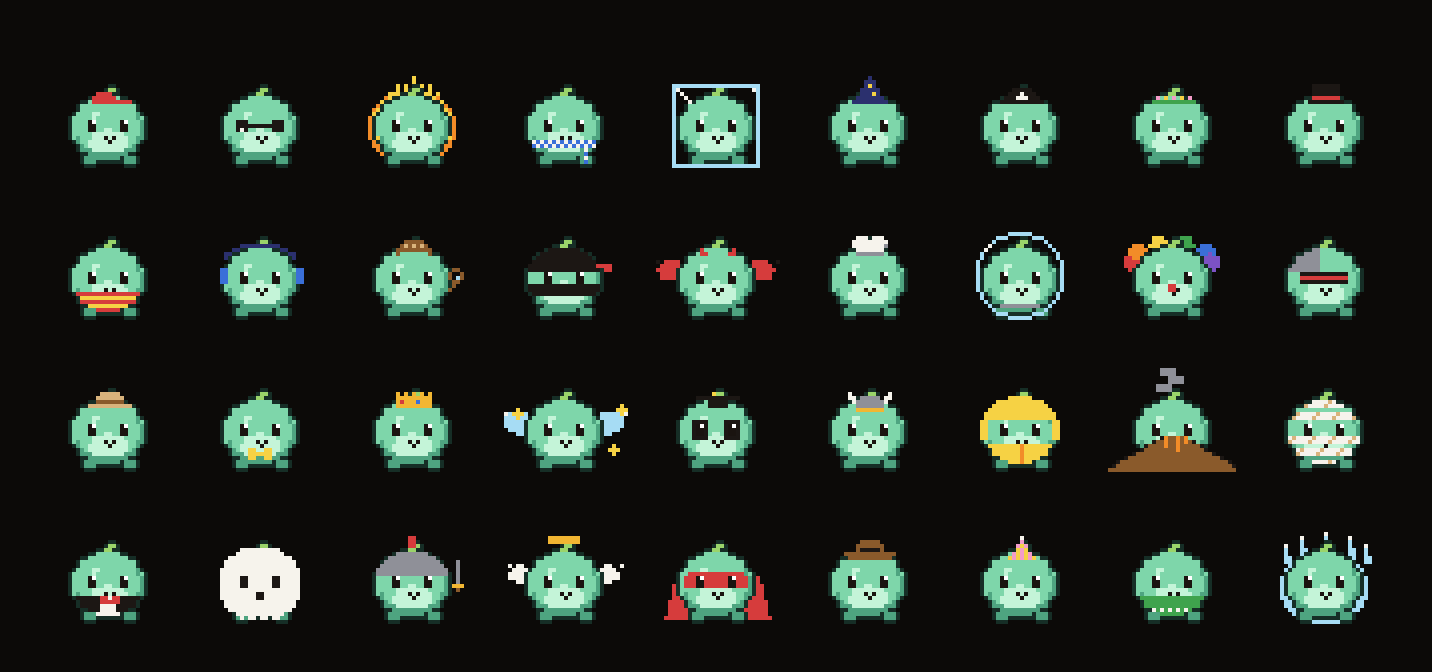
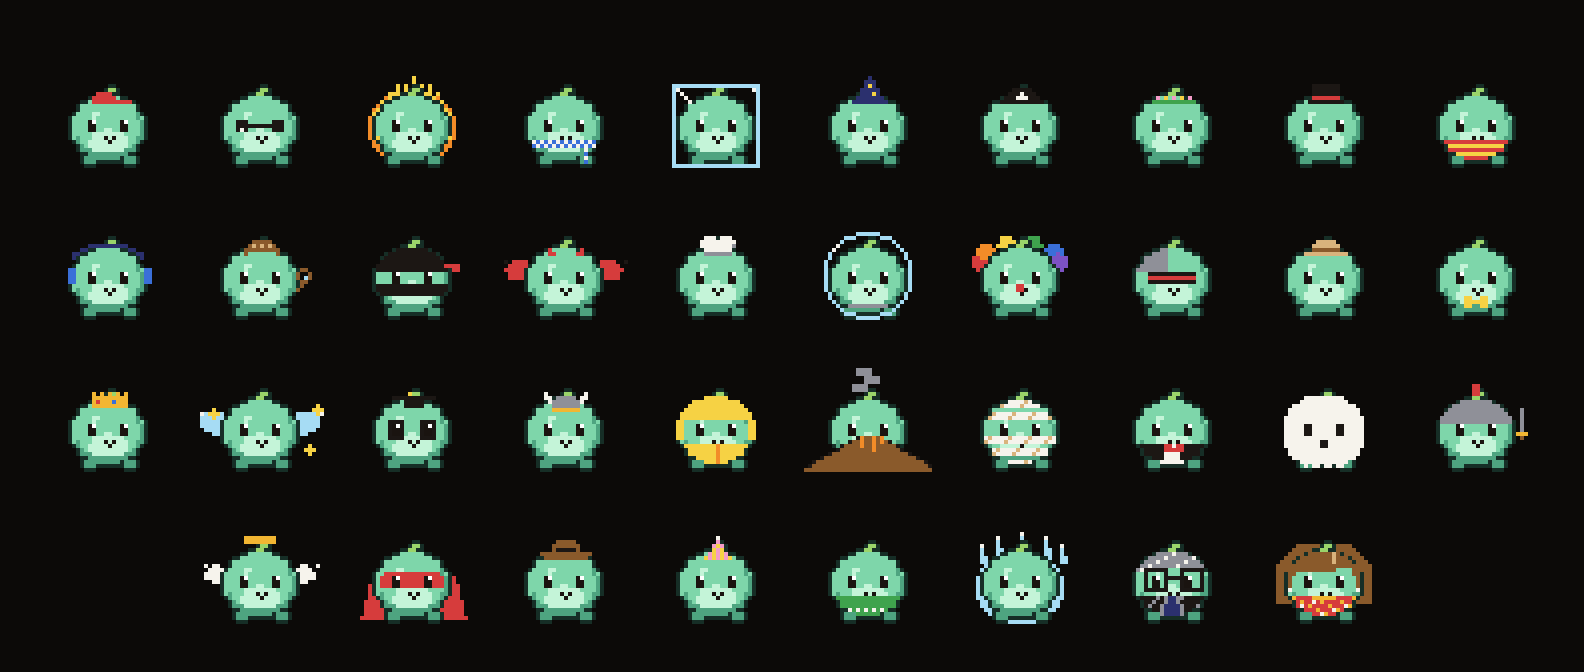
feat: CEO and spy costumes (38 in the shop)
ceo: grey swept fringe, square glasses, black leather jacket. spy: long brown hair, earrings,
red qipao with gold and flowers. Shirts contract deployed in place (catalog only); README
banner regenerated.

diff --git a/packages/sprites/src/costumes.ts b/packages/sprites/src/costumes.ts
@@ -10,6 +10,7 @@ export const COSTUME_KEYS = [
   "striped_shirt", "headphones", "detective", "ninja", "devil_wings", "chef_hat", "astronaut", "clown", "cyborg",
   "explorer", "bow_tie", "crown", "fairy_wings", "graduate", "viking", "raincoat", "volcano", "mummy",
   "tuxedo", "ghost", "knight", "angel", "superhero", "cowboy", "party_hat", "sweater", "ice_crystal",
+  "ceo", "spy",
 ] as const;
 export type CostumeKey = (typeof COSTUME_KEYS)[number];
 
@@ -284,6 +285,60 @@ const DRAW: Record<CostumeKey, Draw> = {
       }
     }
     ellipse(back, g.cx, g.cy + 1, g.rx + 2, g.ry + 1, 14);
+  },
+  ceo: ({ front }, g) => {
+    const cx = Math.round(g.cx);
+    // grey swept fringe: covers the crown, sweeps lower on the left, white highlights
+    for (let y = g.top - 1; y < g.ey - 1; y++) {
+      for (let x = 0; x < SIZE; x++) {
+        if (!inBody(g, x, y, 0.5)) continue;
+        if (y === g.ey - 2 && x > cx - 2) continue;
+        px(front, x, y, (x + 2 * y) % 7 === 0 || y === g.top - 1 ? 2 : 13);
+      }
+    }
+    // square black frames with green between frame and eye (eyes are 2 px at cx -/+ eyeGap), and a bridge
+    const frames = [cx - g.eyeGap - 3, cx + g.eyeGap - 2];
+    for (const ex of frames) {
+      rect(front, ex, g.ey - 2, 6, 1, 1);
+      rect(front, ex, g.ey + 3, 6, 1, 1);
+      rect(front, ex, g.ey - 1, 1, 4, 1);
+      rect(front, ex + 5, g.ey - 1, 1, 4, 1);
+    }
+    for (let x = frames[0]! + 6; x < frames[1]!; x++) px(front, x, g.ey, 1);
+    // black leather jacket, grey lapels, navy shirt down the middle
+    const top = chest(g);
+    torso(front, g, top, (x, y) => {
+      const d = Math.abs(x + 0.5 - g.cx);
+      const open = 1 + (y - top) * 0.35;
+      if (d <= open) return 8;
+      if (d <= open + 1) return 13;
+      return (x + y) % 6 === 0 ? 13 : 1;
+    });
+  },
+  spy: ({ back, front }, g) => {
+    // long brown hair behind the body: a wide curtain from the crown to below the shoulders
+    for (let y = g.top - 2; y < g.cy + g.ry * 0.55; y++) {
+      for (let x = 0; x < SIZE; x++) if (inBody(g, x, y, 3.5)) px(back, x, y, 11);
+    }
+    // plain fringe over the crown with a side part, and strands down the face edges
+    const part = Math.round(g.cx) + 2;
+    for (let y = g.top - 1; y < g.ey + 4; y++) {
+      for (let x = 0; x < SIZE; x++) {
+        if (!inBody(g, x, y, 0.5)) continue;
+        const crown = y < g.ey - 1 - (x > part ? 1 : 0);
+        if (crown || !inBody(g, x, y, -1)) px(front, x, y, crown && x === part && y < g.ey - 3 ? 12 : 11);
+      }
+    }
+    // white earrings
+    px(front, Math.round(g.cx - g.rx), g.ey + 3, 2);
+    px(front, Math.round(g.cx + g.rx) - 1, g.ey + 3, 2);
+    // red qipao: gold collar, gold pattern, white flowers
+    const top = chest(g);
+    torso(front, g, top, (x, y) => {
+      if (y === top && Math.abs(x + 0.5 - g.cx) <= 2) return 15;
+      if ((x + 3 * y) % 11 === 0) return 2;
+      return (2 * x + y) % 5 === 0 ? 15 : 3;
+    });
   },
 };
 

diff --git a/packages/sprites/scripts/readme-banner.ts b/packages/sprites/scripts/readme-banner.ts
@@ -6,7 +6,7 @@ import { COSTUME_KEYS, SIZE, buildPalette, clip, toRgba } from "../src/index";
 import { encodePng } from "../src/png";
 
 const out = process.argv[2] ?? "../../docs/readme-banner.png";
-const COLS = 9;
+const COLS = 10;
 const SCALE = 4;
 const CELL = SIZE * SCALE + 24;
 const PAD = 32;
@@ -20,7 +20,9 @@ const traits = [0, 0, 1, 0, 0]; // mint, belly: the colour of the logo's pets
 COSTUME_KEYS.forEach((costume, n) => {
   const c = clip("idle", { stage: "teen", winged: false, costume });
   const rgba = toRgba(c.frames[0]!, buildPalette(traits), null, c.costume![0]);
-  const ox = PAD + (n % COLS) * CELL + 12;
+  const row = Math.floor(n / COLS);
+  const inRow = Math.min(COLS, COSTUME_KEYS.length - row * COLS); // the last row is centred
+  const ox = PAD + ((COLS - inRow) * CELL) / 2 + (n % COLS) * CELL + 12;
   const oy = PAD + Math.floor(n / COLS) * CELL + 12;
   for (let y = 0; y < SIZE * SCALE; y++) {
     for (let x = 0; x < SIZE * SCALE; x++) {

diff --git a/packages/sprites/src/costumes.test.ts b/packages/sprites/src/costumes.test.ts
@@ -22,14 +22,15 @@ describe("costumes", () => {
     }
   });
 
-  it("all 36 costumes look different from each other", () => {
+  it("all 38 costumes look different from each other", () => {
     const seen = new Set<string>();
     for (const costume of COSTUME_KEYS) {
       const l = clip("idle", { stage: "teen", winged: false, costume }).costume![0]!;
       seen.add(key(l.back) + "|" + key(l.front));
     }
-    expect(COSTUME_KEYS.length).toBe(36);
-    expect(seen.size).toBe(36);
+    expect(COSTUME_KEYS.length).toBe(38);
+    expect(COSTUME_KEYS).toEqual(expect.arrayContaining(["ceo", "spy"]));
+    expect(seen.size).toBe(38);
   });
 
   it("is off without a costume, for an unknown key and on an egg", () => {

diff --git a/shirts/src/lib.rs b/shirts/src/lib.rs
@@ -24,7 +24,7 @@ const CLAIM_DEPOSIT: NearToken = NearToken::from_millinear(10);
 const COSTUME_PRICE: NearToken = NearToken::from_millinear(50);
 
 /// Costume keys the sprites draw (packages/sprites costumes); one NFT per purchase.
-const COSTUMES: [&str; 36] = [
+const COSTUMES: [&str; 38] = [
     "cap",
     "sunglasses",
     "fire",
@@ -61,6 +61,8 @@ const COSTUMES: [&str; 36] = [
     "party_hat",
     "sweater",
     "ice_crystal",
+    "ceo",
+    "spy",
 ];
 
 /// `costumes()` view: the catalog and the flat price.
@@ -306,9 +308,11 @@ mod tests {
     }
 
     #[test]
-    fn the_catalog_lists_all_36_costumes_and_the_price() {
+    fn the_catalog_lists_all_38_costumes_and_the_price() {
         let c = setup().costumes();
-        assert_eq!(c.costumes.len(), 36);
+        assert_eq!(c.costumes.len(), 38);
+        assert!(c.costumes.contains(&"ceo".to_string()));
+        assert!(c.costumes.contains(&"spy".to_string()));
         assert_eq!(c.price, U128(COSTUME_PRICE.as_yoctonear()));
         assert!(c.costumes.contains(&"ghost".to_string()));
     }

diff --git a/CLAUDE.md b/CLAUDE.md
@@ -206,7 +206,7 @@ Precedence (first match wins): Dormant > Starving > Sleepy (also while asleep) >
 
 ### 5.6 Play and items
 - **Game:** Nearling Run, the two-lane race (Build Spec 6), off chain.
-- **Closet:** a **shirt NFT** the owner claims; the device draws it as a sprite layer (Build Spec 5). Replaces the `buy_item` accessories, which stay in the contract unused. **Shirts contract [FIXED, M5b]** (`shirts/`, `shirts.petto.testnet`): NEP-171/177/181, `claim()` mints one shirt per account, ever (`E_CLAIMED`); the claimer attaches 0.01 NEAR for storage and the excess is refunded. Shirts transfer freely; the brain checks ownership with `nft_tokens_for_owner` when the Closet syncs. Kept separate so the pets contract's `nft_tokens` stay pets only. **Costume shop [2026-11-14]:** `buy(costume)` mints one of 36 costumes for exactly 0.05 NEAR (kept by the contract), key in `metadata.extra` as `{"costume":"<key>"}` (`E_COSTUME` for an unknown key); `costumes()` lists the catalog and price. Deployed in place on `shirts.nearling.testnet`. `packages/sprites/src/costumes.ts` draws each costume as back and front layers from the pet's geometry; the brain stores the worn costume key (`PetState.equipped_costume`) and the web Closet has try on, buy and wear. Firmware support is Role 3's (a header regeneration).
+- **Closet:** a **shirt NFT** the owner claims; the device draws it as a sprite layer (Build Spec 5). Replaces the `buy_item` accessories, which stay in the contract unused. **Shirts contract [FIXED, M5b]** (`shirts/`, `shirts.petto.testnet`): NEP-171/177/181, `claim()` mints one shirt per account, ever (`E_CLAIMED`); the claimer attaches 0.01 NEAR for storage and the excess is refunded. Shirts transfer freely; the brain checks ownership with `nft_tokens_for_owner` when the Closet syncs. Kept separate so the pets contract's `nft_tokens` stay pets only. **Costume shop [2026-11-14]:** `buy(costume)` mints one of 38 costumes (36, plus `ceo` and `spy` added 2026-11-14, tx `78iTb7Ew…`) for exactly 0.05 NEAR (kept by the contract), key in `metadata.extra` as `{"costume":"<key>"}` (`E_COSTUME` for an unknown key); `costumes()` lists the catalog and price. Deployed in place on `shirts.nearling.testnet`. `packages/sprites/src/costumes.ts` draws each costume as back and front layers from the pet's geometry; the brain stores the worn costume key (`PetState.equipped_costume`) and the web Closet has try on, buy and wear. Firmware support is Role 3's (a header regeneration).
 
 ---
 

diff --git a/README.md b/README.md
@@ -10,7 +10,7 @@
     <a href="docs/hardware/"><img src="https://img.shields.io/badge/Device-ESP32--S3-E7352C?style=flat-square" alt="Device: ESP32-S3" /></a>
   </p>
   <p>Every word your pet says is a private AI thought, paid on chain from its own NEAR wallet. Feed it and it chats, forget it and it goes quiet, stake for it and the yield keeps it fed.</p>
-  <img src="docs/readme-banner.png" alt="One Petto in each of the 36 Closet costumes, drawn by the app's own sprite code" width="800" />
+  <img src="docs/readme-banner.png" alt="One Petto in each of the 38 Closet costumes, drawn by the app's own sprite code" width="800" />
   <p>
     <a href="#try-it-do-x-see-y">Try it</a> &middot;
     <a href="#architecture">Architecture</a> &middot;
@@ -111,7 +111,7 @@ Editable source: [`docs/architecture.drawio`](docs/architecture.drawio) (open in
 | Feature | What you see | How it works |
 |---|---|---|
 | **Feed the Brain** | Snack / Meal / Feast packs; anyone can feed any pet | `feed(pet)` from your wallet; NEAR Intents (pay from another chain) when enabled, dry quotes by default |
-| **Closet and Shop** | Claim a free shirt; tap any of 36 costumes to try it on your pet, buy it for 0.05 NEAR | Shirts contract `shirts.petto.testnet`: `claim()` (free shirt) and `buy(costume)` (0.05 NEAR); each item is a NEP-171 NFT you own and can gift |
+| **Closet and Shop** | Claim a free shirt; tap any of 38 costumes to try it on your pet, buy it for 0.05 NEAR | Shirts contract `shirts.petto.testnet`: `claim()` (free shirt) and `buy(costume)` (0.05 NEAR); each item is a NEP-171 NFT you own and can gift |
 | **Petto Run** | Two-lane race against a friend, browser or device | Deterministic rules shared by web and firmware (golden vectors); the brain replays inputs to pick the winner |
 | **Care and evolution** | Pat, rock and lights off; the pet grows wings | Device sensors (touch, motion, light) or web buttons; care is local, no transaction |
 | **Public pet page** | `/p/<pet>`: timeline, receipts, "Feed this pet" | No wallet needed: the link to share |

diff --git a/docs/CONTRACT_INTERFACE.md b/docs/CONTRACT_INTERFACE.md
@@ -71,7 +71,7 @@ The brain signs these with function-call keys on `brain.petto.testnet` (receiver
 | Method | Caller | Deposit | Gas | Notes |
 |---|---|---|---|---|
 | `claim()` | anyone, once per account | 0.01 NEAR (excess refunded) | 30 Tgas | Returns the token id. `nft_mint`. `E_CLAIMED`, `E_DEPOSIT` |
-| `buy(costume)` | anyone, any number | exactly 0.05 NEAR (kept by the contract) | 30 Tgas | One of the 36 keys in `costumes()`. Returns the token id; `metadata.extra` = `{"costume":"<key>"}`. `nft_mint`. `E_COSTUME`, `E_DEPOSIT` |
+| `buy(costume)` | anyone, any number | exactly 0.05 NEAR (kept by the contract) | 30 Tgas | One of the 38 keys in `costumes()`. Returns the token id; `metadata.extra` = `{"costume":"<key>"}`. `nft_mint`. `E_COSTUME`, `E_DEPOSIT` |
 | `costumes()` | view | | | `{ costumes: string[], price: "<yocto>" }` |
 | `nft_transfer(receiver_id, token_id)` | owner | 1 yocto | 30 Tgas | Ownership follows the wallet; re-check `nft_tokens_for_owner` when the Closet syncs |
 | `nft_tokens_for_owner(account_id)` and other NEP-171 / 181 views | anyone | | | Collection "Petto Shirts" (`PSHIRT`); new tokens titled "Petto Shirt" (the first 3 claims keep "Nearling Shirt") |
